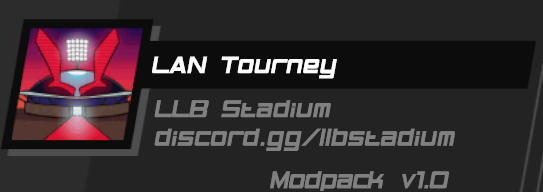
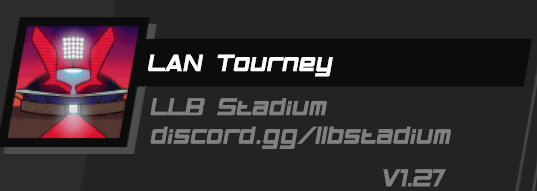
Bump version and update docs

diff --git a/CHANGELOG.md b/CHANGELOG.md
@@ -1,7 +1,15 @@
 # Changelog
 
+## [1.0.1] - 2025-12-20
+
+### Removed
+
+- Remove excessive image loading logs ([`0ac530f`](https://github.com/avgduck/TourneyInfo/commit/0ac530f6730814639103e43158fac4e1360efec7))
+- Remove modpack version info to separate mod [ModpackVersion](https://thunderstore.io/c/lethal-league-blaze/p/avg_duck/ModpackVersion/) ([`34cc986`](https://github.com/avgduck/TourneyInfo/commit/34cc9866ea47ed581df57ae1b1ce5a228356fefd))
+
 ## [1.0.0] - 2025-12-04
 
 _Initial release_
 
+[1.0.1]: https://github.com/avgduck/TourneyInfo/releases/tag/v1.0.1
 [1.0.0]: https://github.com/avgduck/TourneyInfo/releases/tag/v1.0.0

diff --git a/README.md b/README.md
@@ -1,6 +1,6 @@
 ## [TourneyInfo](https://thunderstore.io/c/lethal-league-blaze/p/avg_duck/TourneyInfo/)
 
-Changes the player display on the main menu to show info about the current tournament, including a custom name, description, and logo. This mod also shows the current version of the tourney modpack, if applicable.
+Changes the player display on the main menu to show info about the current tournament, including a custom name, description, and logo.
 
 When no custom logo is specified, the LLB Stadium logo will be used.
 
